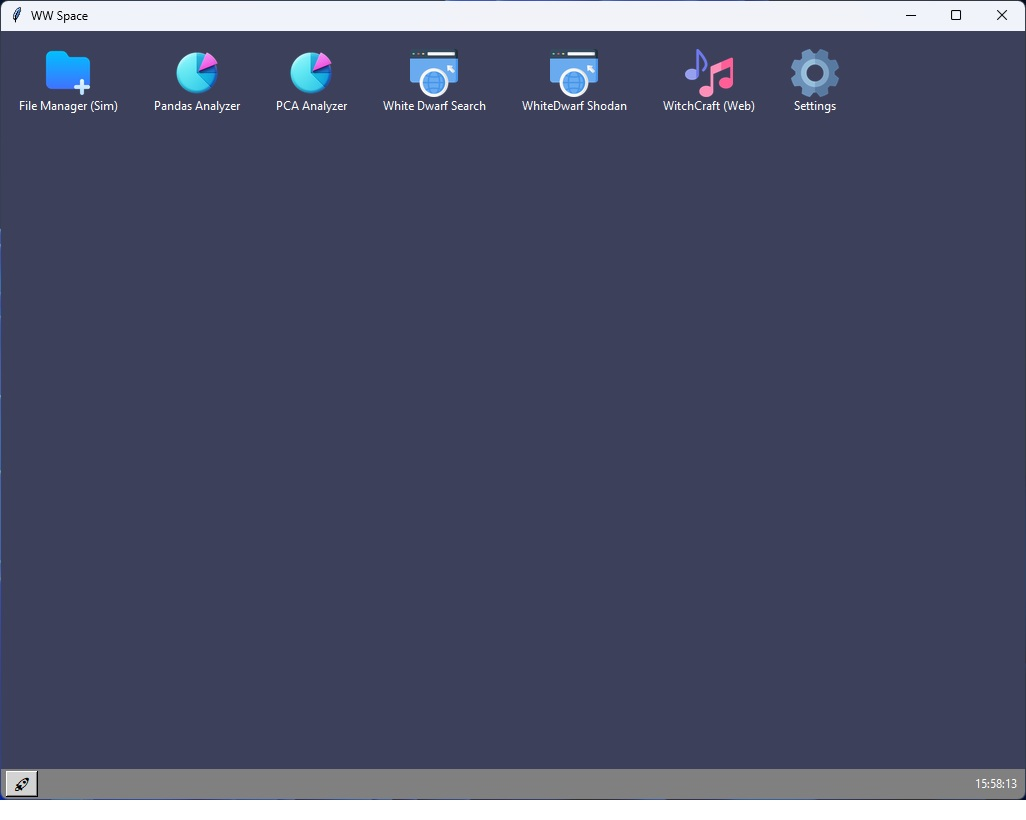
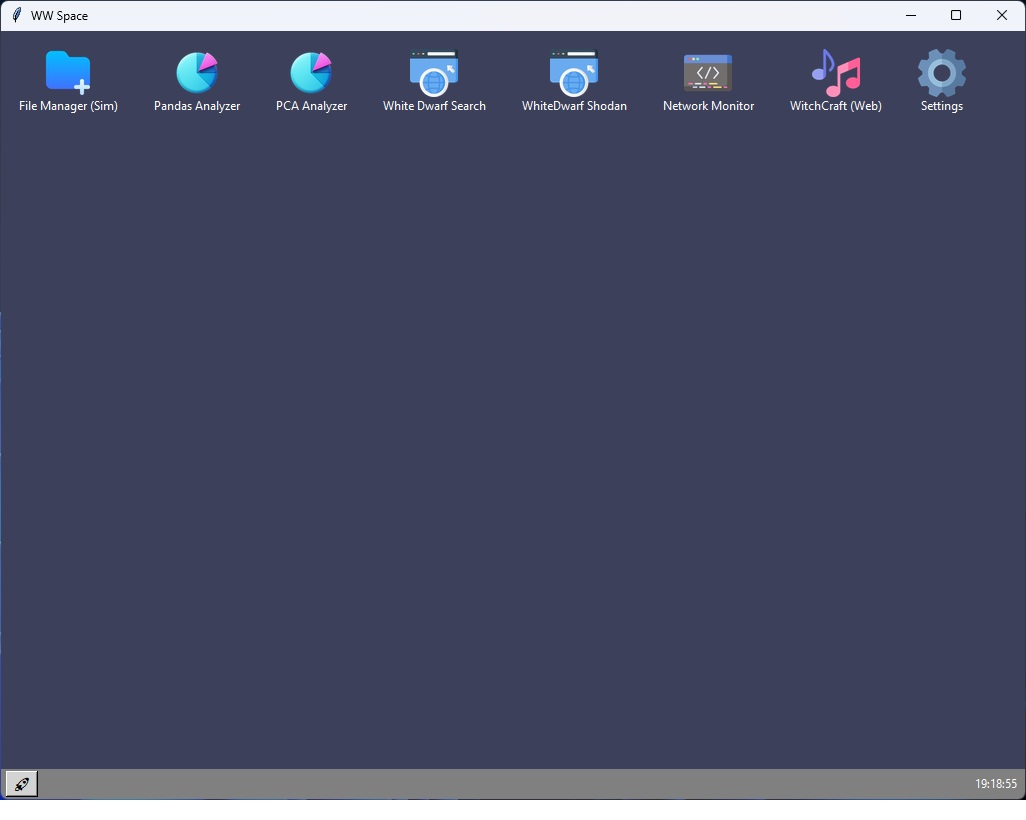
Feature-fix/add new functionality

diff --git a/main.py b/main.py
@@ -549,8 +549,9 @@ class OS:
             {"name": "Pandas Analyzer", "icon": "chart_icon.png", "action": self.open_pandas_analyzer},
             {"name": "PCA Analyzer", "icon": "chart_icon.png", "action": self.open_pca_analyzer},
             {"name": "White Dwarf Search", "icon": "browser.png", "action": lambda: open_white_dwarf(self)},
-            ### NOWOŚĆ: Dodano nową ikonę i akcję otwierającą Shodan ###
             {"name": "WhiteDwarf Shodan", "icon": "browser.png", "action": self.open_white_dwarf_shodan},
+            ### NOWOŚĆ: Ikona do uruchamiania aplikacji Java ###
+            {"name": "Network Monitor", "icon": "programming.png", "action": self.launch_java_app},
             {"name": "WitchCraft (Web)", "icon": "musical-note.png", "action": self.open_yii_app},
             {"name": "Settings", "icon": "settings_icon.png", "action": self.open_settings},
         ]
@@ -568,13 +569,33 @@ class OS:
             except Exception as e:
                 print(f"Błąd podczas tworzenia ikony '{icon_data['name']}': {e}")
 
-    ### NOWOŚĆ: Nowa funkcja do otwierania strony Shodan.io ###
     def open_white_dwarf_shodan(self):
         """Otwiera stronę shodan.io w domyślnej przeglądarce."""
         try:
             webbrowser.open("https://www.shodan.io")
         except webbrowser.Error as e:
             messagebox.showerror("Błąd", f"Nie można otworzyć przeglądarki: {e}")
+            
+    ### NOWOŚĆ: Nowa funkcja do uruchamiania zewnętrznej aplikacji Java ###
+    def launch_java_app(self):
+        """Uruchamia zewnętrzną aplikację Java."""
+        # UWAGA: Zmień 'path/to/your/app.jar' na rzeczywistą ścieżkę do Twojego pliku .jar
+        jar_path = "path/to/your/app.jar"
+        java_command = ["java", "-jar", jar_path]
+        
+        if not os.path.exists(jar_path):
+            messagebox.showerror("Błąd", f"Nie można znaleźć pliku aplikacji Java: {jar_path}\nUpewnij się, że plik istnieje i ścieżka jest poprawna.")
+            return
+
+        try:
+            print(f"Uruchamianie aplikacji Java: {' '.join(java_command)}")
+            # Używamy Popen, aby nie blokować interfejsu graficznego
+            subprocess.Popen(java_command)
+        except FileNotFoundError:
+            messagebox.showerror("Błąd", "Polecenie 'java' nie zostało znalezione.\nCzy Java jest zainstalowana i znajduje się w ścieżce systemowej (PATH)?")
+        except Exception as e:
+            messagebox.showerror("Błąd", f"Nie udało się uruchomić aplikacji Java: {e}")
+
 
     def open_yii_app(self):
         try:
